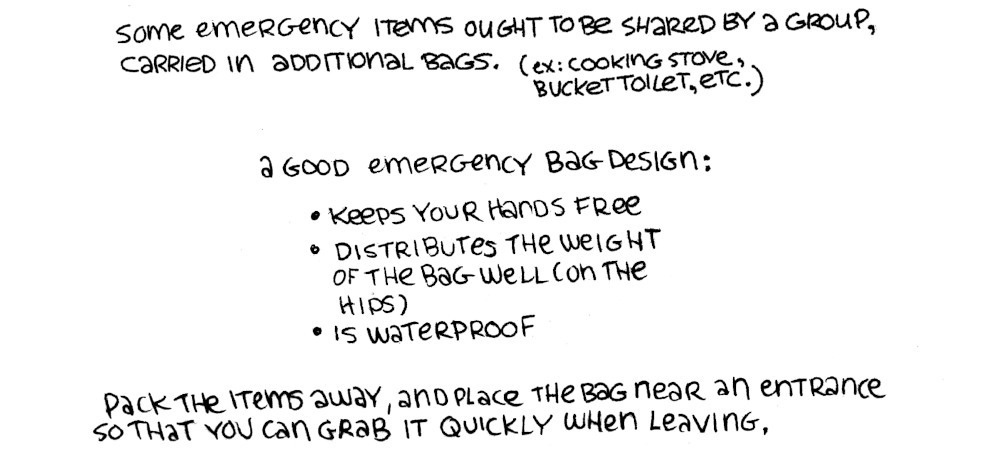
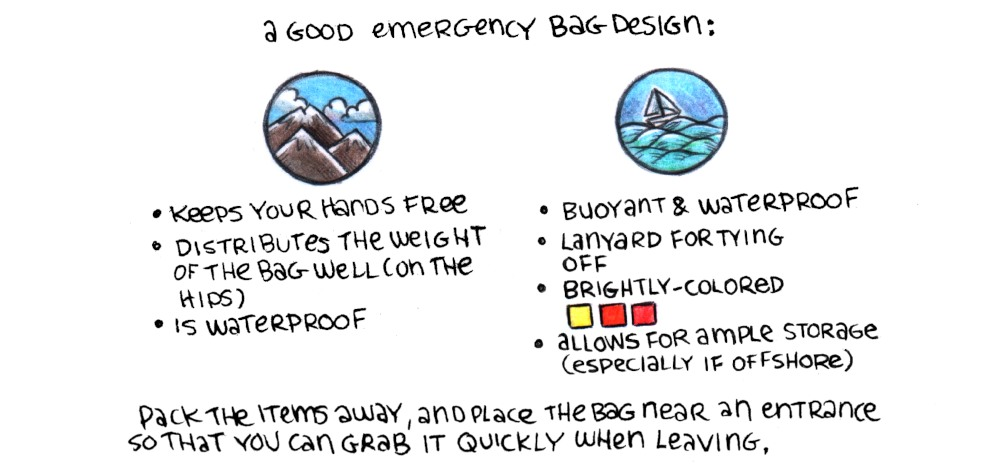
*

Changed region(s): [[0.093, 0.0, 0.899, 0.8089], [0.093, 0.84, 0.899, 0.9956]]

diff --git a/site/emergency_bag.html b/site/emergency_bag.html
@@ -35,11 +35,13 @@
     </div>
     <img src='../media/content/emergency_bag.jpg' alt='drawings of examples of items that sometimes come in an emergency bags: Radio, sextant, navigation tables(for sextant), current almanac(for sextant), pencil, notepad, stitching awl(and or) needle and thread, polarized sunglasses, flares, fish line and hooks, watch, personal location beacon (and or epirb), sunscreen, toothbrush, toothpaste, first-aid kit, spoon, multi-tool, bug spray, waterproof matches, paracord, emergency blanket, toilet paper, lighter, medicine, compass, mirror, hand sanitizer(or soap), batteries, tarp(or tent), multivitamins, candles, towel, whistle, gloves, rain jacket, duct tape, cup, water(3L per person), map(physical), blanket(or sleeping bag), knife, serrated knife, flashlight, rope, high-calorie foods, bowl, portable cooking stove(and fuel), ID, money, photos of family/friends.' loading ='lazy'>
     <p class='noprint'>Radio, sextant, navigation tables(for sextant), current almanac(for sextant), pencil, notepad, stitching awl(and or) needle and thread, polarized sunglasses, flares, fish line and hooks, watch, personal location beacon (and or epirb), sunscreen, toothbrush, toothpaste, first-aid kit, spoon, multi-tool, bug spray, waterproof matches, paracord, emergency blanket, toilet paper, lighter, medicine, compass, mirror, hand sanitizer(or soap), batteries, tarp(or tent), multivitamins, candles, towel, whistle, gloves, rain jacket, duct tape, cup, water(3L per person), map(physical), blanket(or sleeping bag), knife, serrated knife, flashlight, rope, high-calorie foods, bowl, portable cooking stove(and fuel), ID, money, photos of family/friends.</p>
-    <h2>Mutual Aid</h2>
-    <img src='../media/content/emergency_bag_03.jpg' loading ='lazy'>
-    <p class='noprint'>Some items ought to be shared by a group, carried in additional bags (ex: cooking stove, bucket toilet etc).<br>A good bag design:<br>1) Keeps your hands free. 2) Distributes the weight in the bag well (on the hips). 3) Is waterproof.<br>Pack the items away, and place the bag near an entrance so that it is possible to grab it quickly when leaving.</p>
+    <img src='../media/content/emergency_bag_07.jpg' loading ='lazy'>
+    <p class='noprint'>Some items, like a portable cooking stove, or a bucket toilet, usually shared by a group of people, ought to be carried in additional bags by those in the group who can take on more weight safely.</p>
+    <img src='../media/content/emergency_bag_03.jpg' alt='two images, one showing mountains on land, the other a sailboat on the water' loading ='lazy'>
+    <p class='noprint'>A good bag design: On land: <br>1) Keeps your hands free. 2) Distributes the weight in the bag well (on the hips). 3) Is waterproof. On the water:<br> 1) Waterproof 2) Buoyant 3) Has a lanyard for lying off 4) Bright colored (orange, red or yellow) 5) Allows for ample storage(especially if sailing offshore(<br>Pack the items away, and place the bag near an entrance so that it is possible to grab it quickly when leaving.</p>
     <img src='../media/content/emergency_bag_06.jpg' alt='a drawing showing a passport, family photos, money and medicine' loading ='lazy'>
     <p>Store critical items on your person rather than in the bag (identity documents, money, prescription medicine, etc), in case the bag goes missing, or is stolen.</p>
+    <h2>Mutual Aid</h2>
     <img src='../media/content/emergency_bag_04.jpg' alt='a rabbit is conversing to an elderly parrot about preparedness. In another image, smoke is seen emanating from a house, two rabbits are accompanying the eldery parrot, carrying their emergency bag for them.' loading ='lazy'>
     <p class='noprint'>Take the time to make a plan before disaster strikes.<br>Talk to your neighbors, make a plan together. The combined efforts of the community is important to overcome a disaster.<br>Become aware of people in your community with special needs: Expectant mothers, children, those with illnesses or disabilities.<br>When a disaster occurs, check on your loved ones and neighbors, in case they need your help.</p>
 </main>
